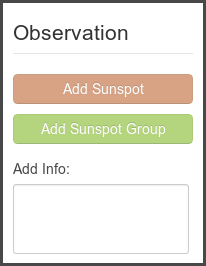
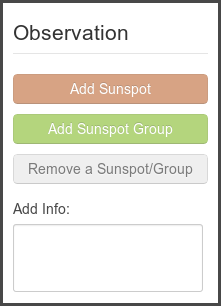
New version of tutorial

Changed region(s): [[0.0, 0.0, 1.0, 1.0], [0.0583, 0.0602, 0.6408, 0.1504], [0.0583, 0.1805, 0.932, 0.2105]]

diff --git a/Site/static/templates/tutorial.html b/Site/static/templates/tutorial.html
@@ -103,9 +103,9 @@
 						dated with the day when was taken. The one used in this example
 						was taken in September, 03 – 1980 (see above the picture). <br>
 						<br> The purpose of this application is to count sunspots and
-						sunspots groups. To do that, we provide you with tools to <u>manipulate
-							the image</u> and <u>to do the counting</u>. <br> <br> You
-						can use icon <img
+						sunspots groups. To do that, we provide you with tools to <strong>manipulate
+							the image</strong> and <strong>to do the counting</strong>. <br> <br>
+						You can use icon <img
 						src="http://societic.ibercivis.es/sun4all/static/images/sun4all-info-icon.png"
 						style="width: 30px;"> to get more information about the
 						application and also the social network icons to spread the word!
@@ -141,7 +141,7 @@
 								src="http://societic.ibercivis.es/sun4all/static/images/sunspot_2.png"
 								style="width: 95px;">
 							<h5>
-								<strong>2</strong> Sunspot
+								<strong>2</strong> Sunspots
 							</h5>
 						</div>
 					</div>
@@ -151,7 +151,7 @@
 								src="http://societic.ibercivis.es/sun4all/static/images/sunspot_3.png"
 								style="width: 86px;">
 							<h5 style="margin-bottom: 0px;">
-								<strong>3</strong> Sunspot
+								<strong>3</strong> Sunspots
 							</h5>
 						</div>
 						<div class="sunspot-images-container">
@@ -159,7 +159,7 @@
 								src="http://societic.ibercivis.es/sun4all/static/images/sunspot_4.png"
 								style="width: 138px;">
 							<h5 style="margin-bottom: 0px; margin-left: 36px;">
-								<strong>4</strong> Sunspot
+								<strong>4</strong> Sunspots
 							</h5>
 						</div>
 					</div>
@@ -168,7 +168,8 @@
 					<div>
 						<h2>SUNSPOT GROUP</h2>
 						<div style="margin-bottom: 10px;">A sunspot group is
-							considered to be a group of sunspots. Look at this example:</div>
+							considered to be a group of one or more sunspots. Look at this
+							example:</div>
 					</div>
 					<img
 						src="http://societic.ibercivis.es/sun4all/static/images/sunspot_group.png"
@@ -177,8 +178,8 @@
 			</div>
 			<div id="3" class="modal-body" style="display: none">
 				<div style="margin-bottom: 10px;">
-					To <u>manipulate the image</u>, you have several buttons located at
-					the bottom of the image that you can use:
+					To <strong>manipulate the image</strong>, you have several buttons
+					located at the bottom of the image that you can use:
 				</div>
 				<img
 					src="http://societic.ibercivis.es/sun4all/static/images/image_toolbar.png"
@@ -201,74 +202,132 @@
 					or right <img
 						src="http://societic.ibercivis.es/sun4all/static/images/right.png">.
 				</div>
-				<div class="toolbar-info">
-					You also can INVERT THE IMAGE <img
-						src="http://societic.ibercivis.es/sun4all/static/images/invert_image.png">
-					and detect sunspots easily. <img
-						src="http://societic.ibercivis.es/sun4all/static/images/inverted_image_1.png"
-						style="width: 120px; margin-top: 10px;"> <img
-						src="http://societic.ibercivis.es/sun4all/static/images/inverted_image_2.png"
-						style="width: 120px; margin-top: 10px;">
-				</div>
 			</div>
 			<div id="4" class="modal-body" style="display: none">
-				<div style="margin-bottom: 10px;">To do the counting, you have
-					located at the right side of the image two boxes:</div>
+				<div style="margin-bottom: 10px;">
+					To <strong>manipulate the image</strong>, you have several buttons
+					located at the bottom of the image that you can use:
+				</div>
+				<img
+					src="http://societic.ibercivis.es/sun4all/static/images/image_toolbar.png"
+					style="display: block; margin: 0px auto; margin-bottom: 10px;">
+
+				<div style="margin-bottom: 10px; margin-left: 10px;">You also
+					can INVERT THE IMAGE between negative and positive to detect
+					sunspots more easily.</div>
+
+				<div class="toolbar-info" style="height: 140px;">
+					<div style="margin-left: 50px; margin-right: 100px; margin-top: 50px; float: left;">
+						<img
+							src="http://societic.ibercivis.es/sun4all/static/images/invert_image.png">
+					</div>
+					<div style="margin-top: 10px; margin-right: 50px; float: left;">
+						<img
+							src="http://societic.ibercivis.es/sun4all/static/images/inverted_image_1.png"
+							style="width: 120px;">
+						<div style="text-align: center;">Negative</div>
+					</div>
+					<div style="margin-top: 10px; float: left;">
+						<img
+							src="http://societic.ibercivis.es/sun4all/static/images/inverted_image_2.png"
+							style="width: 120px;">
+						<div style="text-align: center;">Positive</div>
+					</div>
+				</div>
+				<div style="margin-left: 10px;">In an image in negative
+					sunspots appear as white spots and in positive the sunspots appear
+					as black spots.</div>
+			</div>
+			<div id="5" class="modal-body" style="display: none">
+				<div style="margin-bottom: 10px;">
+					<strong>To mark the sunspots or sunspot groups</strong>, you have
+					located at the right side of the image the “Observation” box:
+				</div>
 				<div class="box-info" style="padding-bottom: 5px;">
 					<img
 						src="http://societic.ibercivis.es/sun4all/static/images/observation_box.png">
-					<div style="margin-top: 80px;">
-						The <strong>“Observation” box</strong> will help you analysing the
-						image by allowing you to “Add Sunspots”, “Add Sunspot Group” and
-						“Add Information” that you may find relevant.
-					</div>
-				</div>
-				<div class="box-info">
-					<img
-						src="http://societic.ibercivis.es/sun4all/static/images/your_data_box.png">
-					<div style="margin-top: 50px;">
-						The <strong>“Your Data” box</strong> resume your analysis by
-						telling you how many sunspots and sunspot groups you have counted
-						so far and also, allows you to “Finish the task” and to “Start
-						over” the analysis.
+					<div style="margin-top: 32px;">
+						The <strong>Observation box</strong> will help you to analyse the
+						image by allowing you to “Add Sunspots”, “Add Sunspot Group”, and
+						“Add Information” that you may find relevant. <br> <br>
+						Additionally, if you wrongly marked a sunspot or sunspot group,
+						you can select it by clicking on the circle surrounding it, and
+						then clicking on the button “Remove a Sunspot / Group”.
 					</div>
 				</div>
 			</div>
-			<div id="5" class="modal-body" style="display: none">
-				<div style="margin-bottom: 10px;">To count sunspots or sunspot
-					groups just follow the next steps:</div>
+			<div id="6" class="modal-body" style="display: none">
+				<div style="margin-bottom: 10px;">
+					<strong>To mark sunspots</strong> just follow the next steps:
+				</div>
 				<div class="box-info">
 					<img
-						src="http://societic.ibercivis.es/sun4all/static/images/sunspot_step_1.png" style="width: 125px;">
+						src="http://societic.ibercivis.es/sun4all/static/images/sunspot_step_1.png"
+						style="width: 125px;">
 					<div style="margin-top: 30px;">1) First you have to create a
 						square around the area you want to cover. To do this, click on the
 						image using the left button of the mouse.</div>
 				</div>
 				<div class="box-info">
 					<img
-						src="http://societic.ibercivis.es/sun4all/static/images/sunspot_step_2.png" style="width: 125px;">
+						src="http://societic.ibercivis.es/sun4all/static/images/sunspot_step_2.png"
+						style="width: 125px;">
 					<div style="margin-top: 20px;">2) Then, you can adjust the
 						square to your spot easily by clicking in the square and dragging
 						him to the position you want.</div>
 				</div>
 				<div class="box-info">
 					<img
-						src="http://societic.ibercivis.es/sun4all/static/images/sunspot_step_3.png" style="width: 125px;">
+						src="http://societic.ibercivis.es/sun4all/static/images/sunspot_step_3.png"
+						style="width: 125px;">
 					<div style="margin-top: 20px;">3) Finally, you have to go to
 						the “Observation” box and click on “Add Sunspot” button which will
 						mark your spot with a yellow circle!</div>
 				</div>
+			</div>
+
+			<div id="7" class="modal-body" style="display: none">
+				<div style="margin-bottom: 10px;">
+					<strong>To mark sunspot groups</strong> just follow the next steps:
+				</div>
+				<div class="box-info">
+					<img src="http://societic.ibercivis.es/sun4all/static/images/sunspot_group_step_1.png"
+						style="width: 100px;">
+					<div style="margin-top: 30px;">1) First you have to create a
+						square around the area you want to cover. To do this, click on the
+						image using the left button of the mouse.</div>
+				</div>
+				<div class="box-info">
+					<img src="http://societic.ibercivis.es/sun4all/static/images/sunspot_group_step_2.png"
+						style="width: 100px;">
+					<div style="margin-top: 20px;">2) As before, you can adjust
+						the square to your group easily by clicking in the square and
+						dragging it to the position you want.</div>
+				</div>
+				<div class="box-info">
+					<img src="http://societic.ibercivis.es/sun4all/static/images/sunspot_group_step_3.png"
+						style="width: 100px;">
+					<div style="margin-top: 20px;">3) Finally, you have to go to
+						the “Observation” box and click on “Add Sunspot Group” button
+						which will mark your group with a blue circle!</div>
+				</div>
+			</div>
+
+			<div id="8" class="modal-body" style="display: none">
+				<div style="margin-bottom: 10px;">The summary of your analysis
+					appears in “Your Data” box:</div>
 				<div class="box-info">
 					<img
-						src="http://societic.ibercivis.es/sun4all/static/images/sunspot_step_4.png" style="width: 125px;">
-					<div style="margin-top: 40px;">
-						<u>For sunspot groups</u>, the process is the same but in this
-						last step you must click on “Add Sunspot Group” button which will
-						mark your sunspot group with a blue circle.
+						src="http://societic.ibercivis.es/sun4all/static/images/your_data_box.png">
+					<div style="margin-top: 50px;">
+						The <strong>“Your Data” box</strong> summarises your analysis by
+						telling you how many sunspots and sunspot groups you have counted
+						so far. <br> <br>It also allows you to “Finish the task”
+						or to “Start over” the analysis.
 					</div>
 				</div>
 			</div>
-			<div id="6" class="modal-body"
+			<div id="9" class="modal-body"
 				style="display: none; text-align: center;">
 				<span>Once you have counted every sunspots and sunspot groups
 					in the spectroheliogram, you just have to click on the “Finish
@@ -313,8 +372,7 @@
 		} else {
 			$("#prevBtn").show();
 		}
-
-		if (step == 6) {
+		if (step == 9) {
 			$("#nextBtn").hide();
 			$("#startContrib").show();
 		}

diff --git a/Site/static/js/game.js b/Site/static/js/game.js
@@ -330,7 +330,7 @@ function removeSelectedCircle() {
 	} else {
 		clusters.splice(clusters.indexOf(entry), 1);
 		clusterCount--;
-		$('#lblclusterCount').text('Clusters count:' + clusterCount);
+		$('#lblclusterCount').text('Clusters count: ' + clusterCount);
 	}
 	
 	circleSelected.remove();
@@ -350,7 +350,7 @@ function addSpot() {
 function addCluster() {
 	clusters[clusterCount] = createAnEntry("cluster", selection.attrs.x, selection.attrs.y, selection.attrs.width);
 	clusterCount++;
-	$('#lblclusterCount').text('Clusters count:' + clusterCount);
+	$('#lblclusterCount').text('Clusters count: ' + clusterCount);
 	circle = drawSelection("blue");
 	setSelectedCircle(circle);
 	$('#pictureCanvas').show();
@@ -365,7 +365,7 @@ function startOver() {
 	clusterCount = 0;
 	spots = new Array();
 	clusters = new Array();
-	$('#lblclusterCount').text('Clusters count:' + clusterCount);
+	$('#lblclusterCount').text('Clusters count: ' + clusterCount);
 	$('#lblspotCount').text('Spots count: ' + spotCount);
 
 	//reset canvas

diff --git a/Site/static/templates/template.html b/Site/static/templates/template.html
@@ -15,7 +15,9 @@
 <script
 	src="http://societic.ibercivis.es/sun4all/static/js/kinetic-v4.7.2.min.js"
 	type="text/javascript"></script>
-<script src="http://localhost/sun4all/js/game.js" type="text/javascript"></script>
+	
+<!--<script src="http://localhost/sun4all/js/game.js" type="text/javascript"></script> -->
+<script src="http://societic.ibercivis.es/sun4all/static/js/game.js" type="text/javascript"></script>
 
 <script type="text/javascript">
 	pybossa.taskLoaded(function(task, deferred) {
@@ -111,7 +113,7 @@
 				<label id="lblspotCount">Spots count: 0</label>
 			</h4>
 			<h4>
-				<label id="lblclusterCount">Clusters count:0</label>
+				<label id="lblclusterCount">Clusters count: 0</label>
 			</h4>
 		</fieldset>
 
